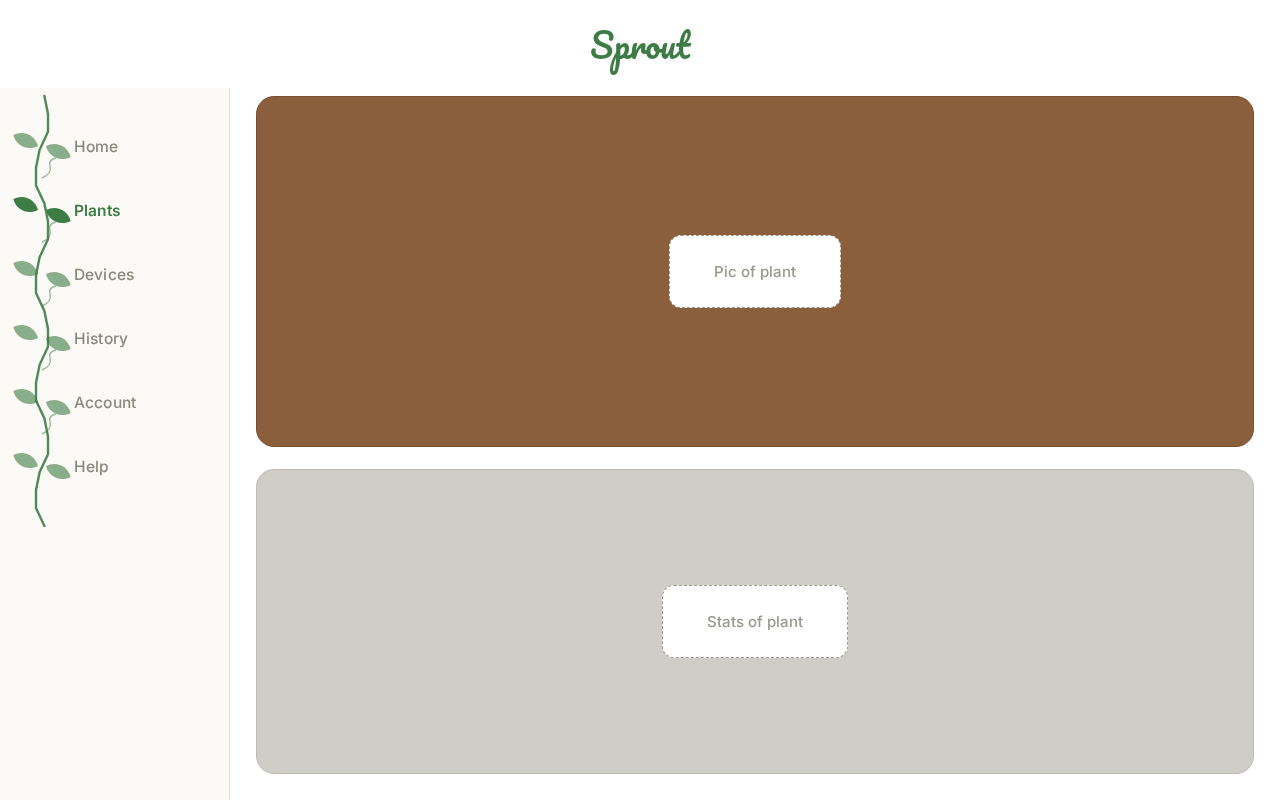
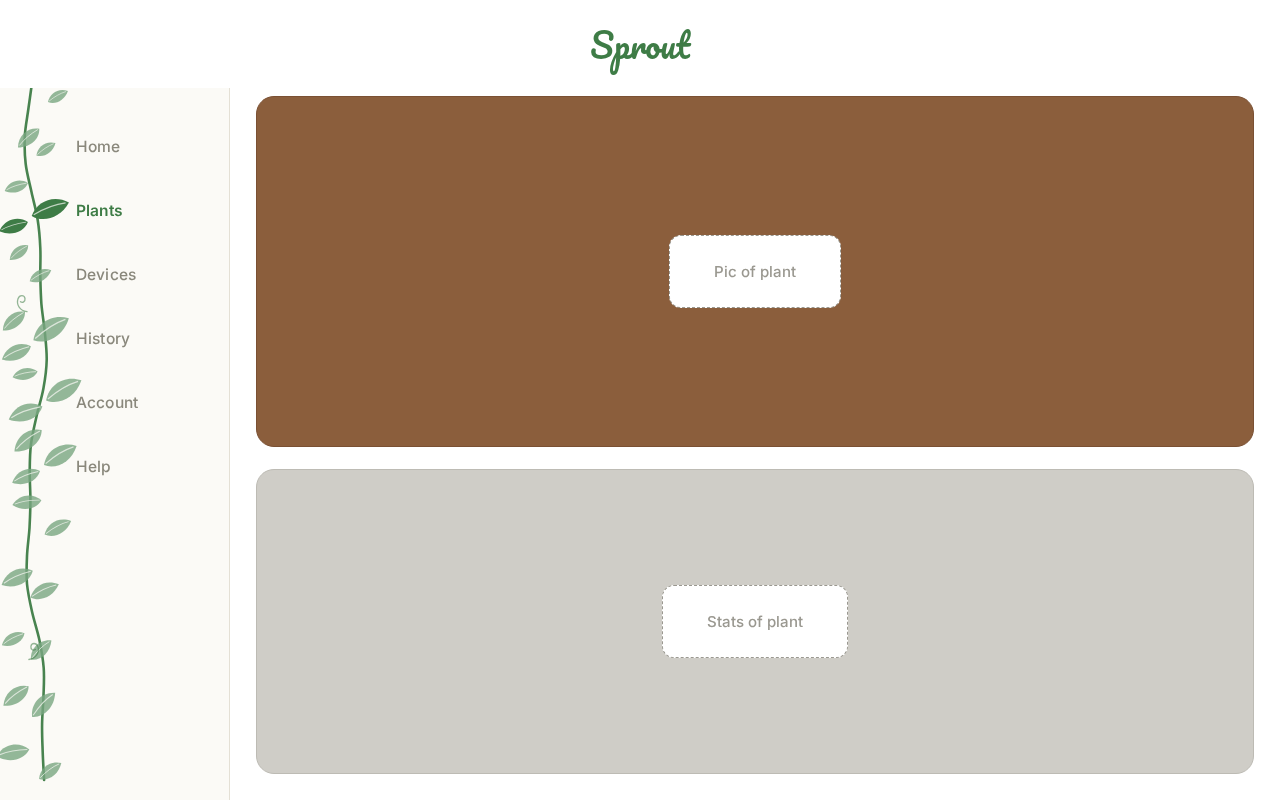
D4 draft v3: realistic full-height vine sidebar

Changed region(s): [[0.0, 0.0938, 0.125, 0.6875], [0.0, 0.7812, 0.0625, 0.9688], [0.0, 0.6875, 0.0625, 0.75]]

diff --git a/docs/design/plant-detail-dark.html b/docs/design/plant-detail-dark.html
@@ -9,14 +9,14 @@
 :root { --item-h: 64px; }
 [data-theme="dark"] {
   --bg: #0F1F16; --sidebar: #14261B; --edge: #24402F;
-  --text: #F2EDE4; --muted: #A3B5A7; --accent: #8FD694;
+  --text: #F2EDE4; --muted: #A3B5A7; --accent: #8FD694; --leaf2: #5FA96B;
   --block-a: #33261C; --block-a-edge: #4A382A;
   --block-b: #1C2B21; --block-b-edge: #2A4030;
   --ph: #223528; --ph-text: #7E9484;
 }
 [data-theme="light"] {
   --bg: #FFFFFF; --sidebar: #FBFAF6; --edge: #E4E0D5;
-  --text: #2B2B26; --muted: #8A887C; --accent: #3E7C46;
+  --text: #2B2B26; --muted: #8A887C; --accent: #3E7C46; --leaf2: #79A681;
   --block-a: #8B5E3C; --block-a-edge: #7A5033;
   --block-b: #CFCDC7; --block-b-edge: #BDBBB4;
   --ph: #FFFFFF; --ph-text: #9A9890;
@@ -26,15 +26,16 @@ body { font-family: "Inter", system-ui, sans-serif; background: var(--bg); color
 header { height: 88px; display: grid; place-items: center; }
 .logo { font-family: "Pacifico", cursive; font-size: 34px; color: var(--accent); }
 .frame { display: flex; height: calc(100vh - 88px); }
-.sidebar { width: 230px; flex: none; background: var(--sidebar); border-right: 1px solid var(--edge); position: relative; }
-.vine { position: absolute; top: 0; left: 6px; }
-.vine .stem { fill: none; stroke: var(--accent); stroke-width: 2.4; stroke-linecap: round; opacity: 0.9; }
-.vine .leaf path { fill: var(--accent); opacity: 0.6; }
-.vine .leaf.current path { opacity: 1; }
-.vine .tendril { fill: none; stroke: var(--accent); stroke-width: 1.4; opacity: 0.5; }
+.sidebar { width: 230px; flex: none; background: var(--sidebar); border-right: 1px solid var(--edge); position: relative; overflow: hidden; }
+.vine { position: absolute; top: 0; left: 0; height: 100%; }
+.vine .stem { fill: none; stroke: var(--accent); stroke-width: 2.6; stroke-linecap: round; opacity: 0.95; }
+.vine .leaf .blade { fill: var(--leaf2); opacity: 0.8; stroke: none; }
+.vine .leaf .vein { fill: none; stroke: var(--sidebar); stroke-width: 1.1; opacity: 0.7; }
+.vine .leaf.current .blade { fill: var(--accent); opacity: 1; }
+.vine .tendril { fill: none; stroke: var(--accent); stroke-width: 1.3; opacity: 0.55; stroke-linecap: round; }
 .menu { position: relative; padding-top: 26px; }
 .menu a {
-  display: flex; align-items: center; height: var(--item-h); padding-left: 74px;
+  display: flex; align-items: center; height: var(--item-h); padding-left: 76px;
   color: var(--muted); text-decoration: none; font: 500 15.5px "Inter", sans-serif; letter-spacing: 0.01em;
 }
 .menu a.current { color: var(--accent); font-weight: 600; }
@@ -48,7 +49,7 @@ header { height: 88px; display: grid; place-items: center; }
 <header><div class="logo">Sprout</div></header>
 <div class="frame">
   <aside class="sidebar">
-    <svg class="vine" width="90" height="446" viewBox="0 0 90 446"><polyline points="38.4,8.0 42.0,25.9 42.0,43.8 33.6,61.8 30.0,79.7 30.0,97.6 38.4,115.5 42.0,133.4 42.0,151.3 33.6,169.2 30.0,187.2 30.0,205.1 38.4,223.0 42.0,240.9 42.0,258.8 33.6,276.8 30.0,294.7 30.0,312.6 38.4,330.5 42.0,348.4 42.0,366.3 33.6,384.2 30.0,402.2 30.0,420.1 38.4,438.0" class="stem"/><g transform="translate(32 58) rotate(24)" class="leaf"><path d="M0,0 C7,-9 20,-9 27,0 C20,9 7,9 0,0 Z" transform="scale(-1,1)"/></g><g transform="translate(40 58) rotate(24)" class="leaf"><path d="M0,0 C7,-9 20,-9 27,0 C20,9 7,9 0,0 Z" transform="scale(1,1)"/></g><path class="tendril" d="M36,90 q 10,-4 8,-12 q -2,-6 6,-8"/><g transform="translate(32 122) rotate(24)" class="leaf current"><path d="M0,0 C7,-9 20,-9 27,0 C20,9 7,9 0,0 Z" transform="scale(-1,1)"/></g><g transform="translate(40 122) rotate(24)" class="leaf current"><path d="M0,0 C7,-9 20,-9 27,0 C20,9 7,9 0,0 Z" transform="scale(1,1)"/></g><path class="tendril" d="M36,154 q 10,-4 8,-12 q -2,-6 6,-8"/><g transform="translate(32 186) rotate(24)" class="leaf"><path d="M0,0 C7,-9 20,-9 27,0 C20,9 7,9 0,0 Z" transform="scale(-1,1)"/></g><g transform="translate(40 186) rotate(24)" class="leaf"><path d="M0,0 C7,-9 20,-9 27,0 C20,9 7,9 0,0 Z" transform="scale(1,1)"/></g><path class="tendril" d="M36,218 q 10,-4 8,-12 q -2,-6 6,-8"/><g transform="translate(32 250) rotate(24)" class="leaf"><path d="M0,0 C7,-9 20,-9 27,0 C20,9 7,9 0,0 Z" transform="scale(-1,1)"/></g><g transform="translate(40 250) rotate(24)" class="leaf"><path d="M0,0 C7,-9 20,-9 27,0 C20,9 7,9 0,0 Z" transform="scale(1,1)"/></g><path class="tendril" d="M36,282 q 10,-4 8,-12 q -2,-6 6,-8"/><g transform="translate(32 314) rotate(24)" class="leaf"><path d="M0,0 C7,-9 20,-9 27,0 C20,9 7,9 0,0 Z" transform="scale(-1,1)"/></g><g transform="translate(40 314) rotate(24)" class="leaf"><path d="M0,0 C7,-9 20,-9 27,0 C20,9 7,9 0,0 Z" transform="scale(1,1)"/></g><path class="tendril" d="M36,346 q 10,-4 8,-12 q -2,-6 6,-8"/><g transform="translate(32 378) rotate(24)" class="leaf"><path d="M0,0 C7,-9 20,-9 27,0 C20,9 7,9 0,0 Z" transform="scale(-1,1)"/></g><g transform="translate(40 378) rotate(24)" class="leaf"><path d="M0,0 C7,-9 20,-9 27,0 C20,9 7,9 0,0 Z" transform="scale(1,1)"/></g></svg>
+    <svg class="vine" width="110" height="712" viewBox="0 0 110 712" preserveAspectRatio="none"><path class="stem" d="M32.4,-8.0 C31.8,-3.3 29.8,10.7 28.5,20.0 C27.3,29.3 25.3,38.7 24.8,48.0 C24.4,57.3 24.6,66.7 25.7,76.0 C26.8,85.3 29.5,94.7 31.5,104.0 C33.5,113.3 36.3,122.7 37.7,132.0 C39.2,141.3 39.9,150.7 40.3,160.0 C40.8,169.3 40.1,178.7 40.3,188.0 C40.5,197.3 40.7,206.7 41.4,216.0 C42.2,225.3 43.9,234.7 44.8,244.0 C45.7,253.3 46.9,262.7 46.7,272.0 C46.5,281.3 45.2,290.7 43.5,300.0 C41.9,309.3 38.7,318.7 36.6,328.0 C34.5,337.3 32.2,346.7 31.0,356.0 C29.8,365.3 29.8,374.7 29.7,384.0 C29.6,393.3 30.5,402.7 30.4,412.0 C30.4,421.3 30.0,430.7 29.5,440.0 C28.9,449.3 27.4,458.7 27.0,468.0 C26.6,477.3 26.2,486.7 27.0,496.0 C27.9,505.3 30.0,514.7 32.1,524.0 C34.2,533.3 37.4,542.7 39.4,552.0 C41.3,561.3 43.0,570.7 43.7,580.0 C44.4,589.3 43.8,598.7 43.5,608.0 C43.2,617.3 42.2,626.7 42.1,636.0 C41.9,645.3 42.4,654.7 42.7,664.0 C43.0,673.3 43.9,687.3 44.1,692.0"/><g transform="translate(48.0 14.0) rotate(-25.63648383634581) scale(0.65,0.65)" class="leaf"><path class="blade" d="M0,0 C8,-11 24,-13 35,-2 C24,9 8,9 0,0 Z"/><path class="vein" d="M2,-0.5 C12,-3 23,-4 32,-2.5"/></g><g transform="translate(39.3 40.7) rotate(-44.57516497920457) scale(-0.81,0.81)" class="leaf"><path class="blade" d="M0,0 C8,-11 24,-13 35,-2 C24,9 8,9 0,0 Z"/><path class="vein" d="M2,-0.5 C12,-3 23,-4 32,-2.5"/></g><g transform="translate(36.4 67.5) rotate(-29.86827081258447) scale(0.65,0.65)" class="leaf"><path class="blade" d="M0,0 C8,-11 24,-13 35,-2 C24,9 8,9 0,0 Z"/><path class="vein" d="M2,-0.5 C12,-3 23,-4 32,-2.5"/></g><g transform="translate(27.9 95.0) rotate(-22.157537548587605) scale(-0.70,0.70)" class="leaf"><path class="blade" d="M0,0 C8,-11 24,-13 35,-2 C24,9 8,9 0,0 Z"/><path class="vein" d="M2,-0.5 C12,-3 23,-4 32,-2.5"/></g><g transform="translate(31.7 127.9) rotate(-16.52238767695576) scale(1.13,1.13)" class="leaf current"><path class="blade" d="M0,0 C8,-11 24,-13 35,-2 C24,9 8,9 0,0 Z"/><path class="vein" d="M2,-0.5 C12,-3 23,-4 32,-2.5"/></g><g transform="translate(27.9 133.9) rotate(-21.39675698283169) scale(-0.86,0.86)" class="leaf current"><path class="blade" d="M0,0 C8,-11 24,-13 35,-2 C24,9 8,9 0,0 Z"/><path class="vein" d="M2,-0.5 C12,-3 23,-4 32,-2.5"/></g><g transform="translate(28.2 157.4) rotate(-41.523894953022) scale(-0.67,0.67)" class="leaf"><path class="blade" d="M0,0 C8,-11 24,-13 35,-2 C24,9 8,9 0,0 Z"/><path class="vein" d="M2,-0.5 C12,-3 23,-4 32,-2.5"/></g><g transform="translate(29.7 193.2) rotate(-23.899193780826284) scale(0.69,0.69)" class="leaf"><path class="blade" d="M0,0 C8,-11 24,-13 35,-2 C24,9 8,9 0,0 Z"/><path class="vein" d="M2,-0.5 C12,-3 23,-4 32,-2.5"/></g><g transform="translate(25.0 223.7) rotate(-43.61401895101372) scale(-0.83,0.83)" class="leaf"><path class="blade" d="M0,0 C8,-11 24,-13 35,-2 C24,9 8,9 0,0 Z"/><path class="vein" d="M2,-0.5 C12,-3 23,-4 32,-2.5"/></g><path class="tendril" transform="translate(27.0 223.7) scale(-1,1)" d="M0,0 C7,-1 11,-7 9,-13 C7.5,-17 2.5,-17 2,-13 C1.6,-10 4.5,-8.5 6.5,-10"/><g transform="translate(33.4 252.2) rotate(-28.592969275273138) scale(1.19,1.19)" class="leaf"><path class="blade" d="M0,0 C8,-11 24,-13 35,-2 C24,9 8,9 0,0 Z"/><path class="vein" d="M2,-0.5 C12,-3 23,-4 32,-2.5"/></g><g transform="translate(30.9 258.2) rotate(-27.946515275816672) scale(-0.91,0.91)" class="leaf"><path class="blade" d="M0,0 C8,-11 24,-13 35,-2 C24,9 8,9 0,0 Z"/><path class="vein" d="M2,-0.5 C12,-3 23,-4 32,-2.5"/></g><g transform="translate(37.6 283.6) rotate(-15.813579702145336) scale(-0.73,0.73)" class="leaf"><path class="blade" d="M0,0 C8,-11 24,-13 35,-2 C24,9 8,9 0,0 Z"/><path class="vein" d="M2,-0.5 C12,-3 23,-4 32,-2.5"/></g><g transform="translate(46.1 312.5) rotate(-26.445676916148066) scale(1.16,1.16)" class="leaf"><path class="blade" d="M0,0 C8,-11 24,-13 35,-2 C24,9 8,9 0,0 Z"/><path class="vein" d="M2,-0.5 C12,-3 23,-4 32,-2.5"/></g><g transform="translate(42.4 318.5) rotate(-24.493313053458778) scale(-1.03,1.03)" class="leaf"><path class="blade" d="M0,0 C8,-11 24,-13 35,-2 C24,9 8,9 0,0 Z"/><path class="vein" d="M2,-0.5 C12,-3 23,-4 32,-2.5"/></g><g transform="translate(41.7 342.0) rotate(-41.51350042631144) scale(-0.99,0.99)" class="leaf"><path class="blade" d="M0,0 C8,-11 24,-13 35,-2 C24,9 8,9 0,0 Z"/><path class="vein" d="M2,-0.5 C12,-3 23,-4 32,-2.5"/></g><g transform="translate(44.0 377.1) rotate(-27.242811789532276) scale(1.08,1.08)" class="leaf"><path class="blade" d="M0,0 C8,-11 24,-13 35,-2 C24,9 8,9 0,0 Z"/><path class="vein" d="M2,-0.5 C12,-3 23,-4 32,-2.5"/></g><g transform="translate(40.0 383.1) rotate(-25.962819443174517) scale(-0.86,0.86)" class="leaf"><path class="blade" d="M0,0 C8,-11 24,-13 35,-2 C24,9 8,9 0,0 Z"/><path class="vein" d="M2,-0.5 C12,-3 23,-4 32,-2.5"/></g><g transform="translate(41.4 412.2) rotate(-12.731843150426243) scale(-0.84,0.84)" class="leaf"><path class="blade" d="M0,0 C8,-11 24,-13 35,-2 C24,9 8,9 0,0 Z"/><path class="vein" d="M2,-0.5 C12,-3 23,-4 32,-2.5"/></g><g transform="translate(44.6 446.6) rotate(-23.963982237265295) scale(0.85,0.85)" class="leaf"><path class="blade" d="M0,0 C8,-11 24,-13 35,-2 C24,9 8,9 0,0 Z"/><path class="vein" d="M2,-0.5 C12,-3 23,-4 32,-2.5"/></g><g transform="translate(32.8 482.7) rotate(-27.98426317805351) scale(-0.98,0.98)" class="leaf"><path class="blade" d="M0,0 C8,-11 24,-13 35,-2 C24,9 8,9 0,0 Z"/><path class="vein" d="M2,-0.5 C12,-3 23,-4 32,-2.5"/></g><g transform="translate(30.5 509.4) rotate(-21.409103527948588) scale(0.89,0.89)" class="leaf"><path class="blade" d="M0,0 C8,-11 24,-13 35,-2 C24,9 8,9 0,0 Z"/><path class="vein" d="M2,-0.5 C12,-3 23,-4 32,-2.5"/></g><g transform="translate(24.5 545.3) rotate(-31.33992518702499) scale(-0.73,0.73)" class="leaf"><path class="blade" d="M0,0 C8,-11 24,-13 35,-2 C24,9 8,9 0,0 Z"/><path class="vein" d="M2,-0.5 C12,-3 23,-4 32,-2.5"/></g><g transform="translate(30.9 571.5) rotate(-39.61416160155131) scale(0.80,0.80)" class="leaf"><path class="blade" d="M0,0 C8,-11 24,-13 35,-2 C24,9 8,9 0,0 Z"/><path class="vein" d="M2,-0.5 C12,-3 23,-4 32,-2.5"/></g><path class="tendril" transform="translate(28.9 571.5) scale(1,1)" d="M0,0 C7,-1 11,-7 9,-13 C7.5,-17 2.5,-17 2,-13 C1.6,-10 4.5,-8.5 6.5,-10"/><g transform="translate(28.6 598.2) rotate(-41.08507156329) scale(-0.91,0.91)" class="leaf"><path class="blade" d="M0,0 C8,-11 24,-13 35,-2 C24,9 8,9 0,0 Z"/><path class="vein" d="M2,-0.5 C12,-3 23,-4 32,-2.5"/></g><g transform="translate(32.1 628.9) rotate(-42.93791055439473) scale(0.95,0.95)" class="leaf"><path class="blade" d="M0,0 C8,-11 24,-13 35,-2 C24,9 8,9 0,0 Z"/><path class="vein" d="M2,-0.5 C12,-3 23,-4 32,-2.5"/></g><g transform="translate(29.3 661.5) rotate(-14.86736616224183) scale(-0.96,0.96)" class="leaf"><path class="blade" d="M0,0 C8,-11 24,-13 35,-2 C24,9 8,9 0,0 Z"/><path class="vein" d="M2,-0.5 C12,-3 23,-4 32,-2.5"/></g><g transform="translate(39.1 690.9) rotate(-32.36669571739826) scale(0.78,0.78)" class="leaf"><path class="blade" d="M0,0 C8,-11 24,-13 35,-2 C24,9 8,9 0,0 Z"/><path class="vein" d="M2,-0.5 C12,-3 23,-4 32,-2.5"/></g></svg>
     <nav class="menu">
       <a href="#">Home</a>
       <a href="#" class="current">Plants</a>

diff --git a/docs/design/plant-detail-light.html b/docs/design/plant-detail-light.html
@@ -9,14 +9,14 @@
 :root { --item-h: 64px; }
 [data-theme="dark"] {
   --bg: #0F1F16; --sidebar: #14261B; --edge: #24402F;
-  --text: #F2EDE4; --muted: #A3B5A7; --accent: #8FD694;
+  --text: #F2EDE4; --muted: #A3B5A7; --accent: #8FD694; --leaf2: #5FA96B;
   --block-a: #33261C; --block-a-edge: #4A382A;
   --block-b: #1C2B21; --block-b-edge: #2A4030;
   --ph: #223528; --ph-text: #7E9484;
 }
 [data-theme="light"] {
   --bg: #FFFFFF; --sidebar: #FBFAF6; --edge: #E4E0D5;
-  --text: #2B2B26; --muted: #8A887C; --accent: #3E7C46;
+  --text: #2B2B26; --muted: #8A887C; --accent: #3E7C46; --leaf2: #79A681;
   --block-a: #8B5E3C; --block-a-edge: #7A5033;
   --block-b: #CFCDC7; --block-b-edge: #BDBBB4;
   --ph: #FFFFFF; --ph-text: #9A9890;
@@ -26,15 +26,16 @@ body { font-family: "Inter", system-ui, sans-serif; background: var(--bg); color
 header { height: 88px; display: grid; place-items: center; }
 .logo { font-family: "Pacifico", cursive; font-size: 34px; color: var(--accent); }
 .frame { display: flex; height: calc(100vh - 88px); }
-.sidebar { width: 230px; flex: none; background: var(--sidebar); border-right: 1px solid var(--edge); position: relative; }
-.vine { position: absolute; top: 0; left: 6px; }
-.vine .stem { fill: none; stroke: var(--accent); stroke-width: 2.4; stroke-linecap: round; opacity: 0.9; }
-.vine .leaf path { fill: var(--accent); opacity: 0.6; }
-.vine .leaf.current path { opacity: 1; }
-.vine .tendril { fill: none; stroke: var(--accent); stroke-width: 1.4; opacity: 0.5; }
+.sidebar { width: 230px; flex: none; background: var(--sidebar); border-right: 1px solid var(--edge); position: relative; overflow: hidden; }
+.vine { position: absolute; top: 0; left: 0; height: 100%; }
+.vine .stem { fill: none; stroke: var(--accent); stroke-width: 2.6; stroke-linecap: round; opacity: 0.95; }
+.vine .leaf .blade { fill: var(--leaf2); opacity: 0.8; stroke: none; }
+.vine .leaf .vein { fill: none; stroke: var(--sidebar); stroke-width: 1.1; opacity: 0.7; }
+.vine .leaf.current .blade { fill: var(--accent); opacity: 1; }
+.vine .tendril { fill: none; stroke: var(--accent); stroke-width: 1.3; opacity: 0.55; stroke-linecap: round; }
 .menu { position: relative; padding-top: 26px; }
 .menu a {
-  display: flex; align-items: center; height: var(--item-h); padding-left: 74px;
+  display: flex; align-items: center; height: var(--item-h); padding-left: 76px;
   color: var(--muted); text-decoration: none; font: 500 15.5px "Inter", sans-serif; letter-spacing: 0.01em;
 }
 .menu a.current { color: var(--accent); font-weight: 600; }
@@ -48,7 +49,7 @@ header { height: 88px; display: grid; place-items: center; }
 <header><div class="logo">Sprout</div></header>
 <div class="frame">
   <aside class="sidebar">
-    <svg class="vine" width="90" height="446" viewBox="0 0 90 446"><polyline points="38.4,8.0 42.0,25.9 42.0,43.8 33.6,61.8 30.0,79.7 30.0,97.6 38.4,115.5 42.0,133.4 42.0,151.3 33.6,169.2 30.0,187.2 30.0,205.1 38.4,223.0 42.0,240.9 42.0,258.8 33.6,276.8 30.0,294.7 30.0,312.6 38.4,330.5 42.0,348.4 42.0,366.3 33.6,384.2 30.0,402.2 30.0,420.1 38.4,438.0" class="stem"/><g transform="translate(32 58) rotate(24)" class="leaf"><path d="M0,0 C7,-9 20,-9 27,0 C20,9 7,9 0,0 Z" transform="scale(-1,1)"/></g><g transform="translate(40 58) rotate(24)" class="leaf"><path d="M0,0 C7,-9 20,-9 27,0 C20,9 7,9 0,0 Z" transform="scale(1,1)"/></g><path class="tendril" d="M36,90 q 10,-4 8,-12 q -2,-6 6,-8"/><g transform="translate(32 122) rotate(24)" class="leaf current"><path d="M0,0 C7,-9 20,-9 27,0 C20,9 7,9 0,0 Z" transform="scale(-1,1)"/></g><g transform="translate(40 122) rotate(24)" class="leaf current"><path d="M0,0 C7,-9 20,-9 27,0 C20,9 7,9 0,0 Z" transform="scale(1,1)"/></g><path class="tendril" d="M36,154 q 10,-4 8,-12 q -2,-6 6,-8"/><g transform="translate(32 186) rotate(24)" class="leaf"><path d="M0,0 C7,-9 20,-9 27,0 C20,9 7,9 0,0 Z" transform="scale(-1,1)"/></g><g transform="translate(40 186) rotate(24)" class="leaf"><path d="M0,0 C7,-9 20,-9 27,0 C20,9 7,9 0,0 Z" transform="scale(1,1)"/></g><path class="tendril" d="M36,218 q 10,-4 8,-12 q -2,-6 6,-8"/><g transform="translate(32 250) rotate(24)" class="leaf"><path d="M0,0 C7,-9 20,-9 27,0 C20,9 7,9 0,0 Z" transform="scale(-1,1)"/></g><g transform="translate(40 250) rotate(24)" class="leaf"><path d="M0,0 C7,-9 20,-9 27,0 C20,9 7,9 0,0 Z" transform="scale(1,1)"/></g><path class="tendril" d="M36,282 q 10,-4 8,-12 q -2,-6 6,-8"/><g transform="translate(32 314) rotate(24)" class="leaf"><path d="M0,0 C7,-9 20,-9 27,0 C20,9 7,9 0,0 Z" transform="scale(-1,1)"/></g><g transform="translate(40 314) rotate(24)" class="leaf"><path d="M0,0 C7,-9 20,-9 27,0 C20,9 7,9 0,0 Z" transform="scale(1,1)"/></g><path class="tendril" d="M36,346 q 10,-4 8,-12 q -2,-6 6,-8"/><g transform="translate(32 378) rotate(24)" class="leaf"><path d="M0,0 C7,-9 20,-9 27,0 C20,9 7,9 0,0 Z" transform="scale(-1,1)"/></g><g transform="translate(40 378) rotate(24)" class="leaf"><path d="M0,0 C7,-9 20,-9 27,0 C20,9 7,9 0,0 Z" transform="scale(1,1)"/></g></svg>
+    <svg class="vine" width="110" height="712" viewBox="0 0 110 712" preserveAspectRatio="none"><path class="stem" d="M32.4,-8.0 C31.8,-3.3 29.8,10.7 28.5,20.0 C27.3,29.3 25.3,38.7 24.8,48.0 C24.4,57.3 24.6,66.7 25.7,76.0 C26.8,85.3 29.5,94.7 31.5,104.0 C33.5,113.3 36.3,122.7 37.7,132.0 C39.2,141.3 39.9,150.7 40.3,160.0 C40.8,169.3 40.1,178.7 40.3,188.0 C40.5,197.3 40.7,206.7 41.4,216.0 C42.2,225.3 43.9,234.7 44.8,244.0 C45.7,253.3 46.9,262.7 46.7,272.0 C46.5,281.3 45.2,290.7 43.5,300.0 C41.9,309.3 38.7,318.7 36.6,328.0 C34.5,337.3 32.2,346.7 31.0,356.0 C29.8,365.3 29.8,374.7 29.7,384.0 C29.6,393.3 30.5,402.7 30.4,412.0 C30.4,421.3 30.0,430.7 29.5,440.0 C28.9,449.3 27.4,458.7 27.0,468.0 C26.6,477.3 26.2,486.7 27.0,496.0 C27.9,505.3 30.0,514.7 32.1,524.0 C34.2,533.3 37.4,542.7 39.4,552.0 C41.3,561.3 43.0,570.7 43.7,580.0 C44.4,589.3 43.8,598.7 43.5,608.0 C43.2,617.3 42.2,626.7 42.1,636.0 C41.9,645.3 42.4,654.7 42.7,664.0 C43.0,673.3 43.9,687.3 44.1,692.0"/><g transform="translate(48.0 14.0) rotate(-25.63648383634581) scale(0.65,0.65)" class="leaf"><path class="blade" d="M0,0 C8,-11 24,-13 35,-2 C24,9 8,9 0,0 Z"/><path class="vein" d="M2,-0.5 C12,-3 23,-4 32,-2.5"/></g><g transform="translate(39.3 40.7) rotate(-44.57516497920457) scale(-0.81,0.81)" class="leaf"><path class="blade" d="M0,0 C8,-11 24,-13 35,-2 C24,9 8,9 0,0 Z"/><path class="vein" d="M2,-0.5 C12,-3 23,-4 32,-2.5"/></g><g transform="translate(36.4 67.5) rotate(-29.86827081258447) scale(0.65,0.65)" class="leaf"><path class="blade" d="M0,0 C8,-11 24,-13 35,-2 C24,9 8,9 0,0 Z"/><path class="vein" d="M2,-0.5 C12,-3 23,-4 32,-2.5"/></g><g transform="translate(27.9 95.0) rotate(-22.157537548587605) scale(-0.70,0.70)" class="leaf"><path class="blade" d="M0,0 C8,-11 24,-13 35,-2 C24,9 8,9 0,0 Z"/><path class="vein" d="M2,-0.5 C12,-3 23,-4 32,-2.5"/></g><g transform="translate(31.7 127.9) rotate(-16.52238767695576) scale(1.13,1.13)" class="leaf current"><path class="blade" d="M0,0 C8,-11 24,-13 35,-2 C24,9 8,9 0,0 Z"/><path class="vein" d="M2,-0.5 C12,-3 23,-4 32,-2.5"/></g><g transform="translate(27.9 133.9) rotate(-21.39675698283169) scale(-0.86,0.86)" class="leaf current"><path class="blade" d="M0,0 C8,-11 24,-13 35,-2 C24,9 8,9 0,0 Z"/><path class="vein" d="M2,-0.5 C12,-3 23,-4 32,-2.5"/></g><g transform="translate(28.2 157.4) rotate(-41.523894953022) scale(-0.67,0.67)" class="leaf"><path class="blade" d="M0,0 C8,-11 24,-13 35,-2 C24,9 8,9 0,0 Z"/><path class="vein" d="M2,-0.5 C12,-3 23,-4 32,-2.5"/></g><g transform="translate(29.7 193.2) rotate(-23.899193780826284) scale(0.69,0.69)" class="leaf"><path class="blade" d="M0,0 C8,-11 24,-13 35,-2 C24,9 8,9 0,0 Z"/><path class="vein" d="M2,-0.5 C12,-3 23,-4 32,-2.5"/></g><g transform="translate(25.0 223.7) rotate(-43.61401895101372) scale(-0.83,0.83)" class="leaf"><path class="blade" d="M0,0 C8,-11 24,-13 35,-2 C24,9 8,9 0,0 Z"/><path class="vein" d="M2,-0.5 C12,-3 23,-4 32,-2.5"/></g><path class="tendril" transform="translate(27.0 223.7) scale(-1,1)" d="M0,0 C7,-1 11,-7 9,-13 C7.5,-17 2.5,-17 2,-13 C1.6,-10 4.5,-8.5 6.5,-10"/><g transform="translate(33.4 252.2) rotate(-28.592969275273138) scale(1.19,1.19)" class="leaf"><path class="blade" d="M0,0 C8,-11 24,-13 35,-2 C24,9 8,9 0,0 Z"/><path class="vein" d="M2,-0.5 C12,-3 23,-4 32,-2.5"/></g><g transform="translate(30.9 258.2) rotate(-27.946515275816672) scale(-0.91,0.91)" class="leaf"><path class="blade" d="M0,0 C8,-11 24,-13 35,-2 C24,9 8,9 0,0 Z"/><path class="vein" d="M2,-0.5 C12,-3 23,-4 32,-2.5"/></g><g transform="translate(37.6 283.6) rotate(-15.813579702145336) scale(-0.73,0.73)" class="leaf"><path class="blade" d="M0,0 C8,-11 24,-13 35,-2 C24,9 8,9 0,0 Z"/><path class="vein" d="M2,-0.5 C12,-3 23,-4 32,-2.5"/></g><g transform="translate(46.1 312.5) rotate(-26.445676916148066) scale(1.16,1.16)" class="leaf"><path class="blade" d="M0,0 C8,-11 24,-13 35,-2 C24,9 8,9 0,0 Z"/><path class="vein" d="M2,-0.5 C12,-3 23,-4 32,-2.5"/></g><g transform="translate(42.4 318.5) rotate(-24.493313053458778) scale(-1.03,1.03)" class="leaf"><path class="blade" d="M0,0 C8,-11 24,-13 35,-2 C24,9 8,9 0,0 Z"/><path class="vein" d="M2,-0.5 C12,-3 23,-4 32,-2.5"/></g><g transform="translate(41.7 342.0) rotate(-41.51350042631144) scale(-0.99,0.99)" class="leaf"><path class="blade" d="M0,0 C8,-11 24,-13 35,-2 C24,9 8,9 0,0 Z"/><path class="vein" d="M2,-0.5 C12,-3 23,-4 32,-2.5"/></g><g transform="translate(44.0 377.1) rotate(-27.242811789532276) scale(1.08,1.08)" class="leaf"><path class="blade" d="M0,0 C8,-11 24,-13 35,-2 C24,9 8,9 0,0 Z"/><path class="vein" d="M2,-0.5 C12,-3 23,-4 32,-2.5"/></g><g transform="translate(40.0 383.1) rotate(-25.962819443174517) scale(-0.86,0.86)" class="leaf"><path class="blade" d="M0,0 C8,-11 24,-13 35,-2 C24,9 8,9 0,0 Z"/><path class="vein" d="M2,-0.5 C12,-3 23,-4 32,-2.5"/></g><g transform="translate(41.4 412.2) rotate(-12.731843150426243) scale(-0.84,0.84)" class="leaf"><path class="blade" d="M0,0 C8,-11 24,-13 35,-2 C24,9 8,9 0,0 Z"/><path class="vein" d="M2,-0.5 C12,-3 23,-4 32,-2.5"/></g><g transform="translate(44.6 446.6) rotate(-23.963982237265295) scale(0.85,0.85)" class="leaf"><path class="blade" d="M0,0 C8,-11 24,-13 35,-2 C24,9 8,9 0,0 Z"/><path class="vein" d="M2,-0.5 C12,-3 23,-4 32,-2.5"/></g><g transform="translate(32.8 482.7) rotate(-27.98426317805351) scale(-0.98,0.98)" class="leaf"><path class="blade" d="M0,0 C8,-11 24,-13 35,-2 C24,9 8,9 0,0 Z"/><path class="vein" d="M2,-0.5 C12,-3 23,-4 32,-2.5"/></g><g transform="translate(30.5 509.4) rotate(-21.409103527948588) scale(0.89,0.89)" class="leaf"><path class="blade" d="M0,0 C8,-11 24,-13 35,-2 C24,9 8,9 0,0 Z"/><path class="vein" d="M2,-0.5 C12,-3 23,-4 32,-2.5"/></g><g transform="translate(24.5 545.3) rotate(-31.33992518702499) scale(-0.73,0.73)" class="leaf"><path class="blade" d="M0,0 C8,-11 24,-13 35,-2 C24,9 8,9 0,0 Z"/><path class="vein" d="M2,-0.5 C12,-3 23,-4 32,-2.5"/></g><g transform="translate(30.9 571.5) rotate(-39.61416160155131) scale(0.80,0.80)" class="leaf"><path class="blade" d="M0,0 C8,-11 24,-13 35,-2 C24,9 8,9 0,0 Z"/><path class="vein" d="M2,-0.5 C12,-3 23,-4 32,-2.5"/></g><path class="tendril" transform="translate(28.9 571.5) scale(1,1)" d="M0,0 C7,-1 11,-7 9,-13 C7.5,-17 2.5,-17 2,-13 C1.6,-10 4.5,-8.5 6.5,-10"/><g transform="translate(28.6 598.2) rotate(-41.08507156329) scale(-0.91,0.91)" class="leaf"><path class="blade" d="M0,0 C8,-11 24,-13 35,-2 C24,9 8,9 0,0 Z"/><path class="vein" d="M2,-0.5 C12,-3 23,-4 32,-2.5"/></g><g transform="translate(32.1 628.9) rotate(-42.93791055439473) scale(0.95,0.95)" class="leaf"><path class="blade" d="M0,0 C8,-11 24,-13 35,-2 C24,9 8,9 0,0 Z"/><path class="vein" d="M2,-0.5 C12,-3 23,-4 32,-2.5"/></g><g transform="translate(29.3 661.5) rotate(-14.86736616224183) scale(-0.96,0.96)" class="leaf"><path class="blade" d="M0,0 C8,-11 24,-13 35,-2 C24,9 8,9 0,0 Z"/><path class="vein" d="M2,-0.5 C12,-3 23,-4 32,-2.5"/></g><g transform="translate(39.1 690.9) rotate(-32.36669571739826) scale(0.78,0.78)" class="leaf"><path class="blade" d="M0,0 C8,-11 24,-13 35,-2 C24,9 8,9 0,0 Z"/><path class="vein" d="M2,-0.5 C12,-3 23,-4 32,-2.5"/></g></svg>
     <nav class="menu">
       <a href="#">Home</a>
       <a href="#" class="current">Plants</a>
